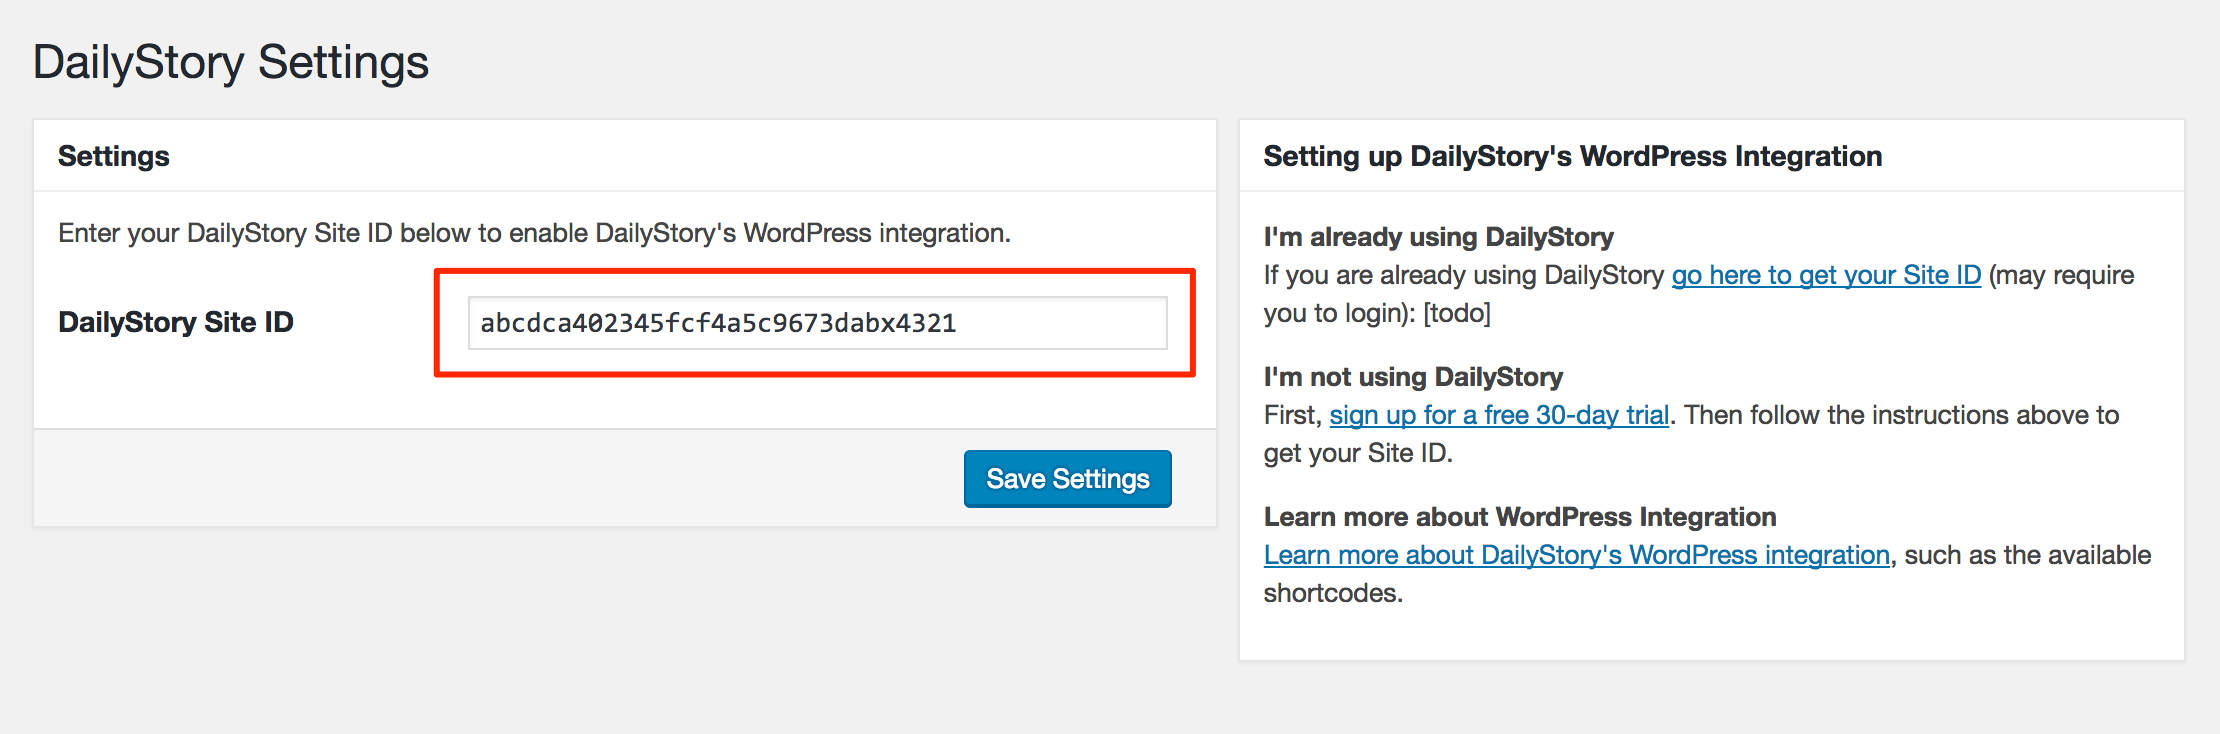
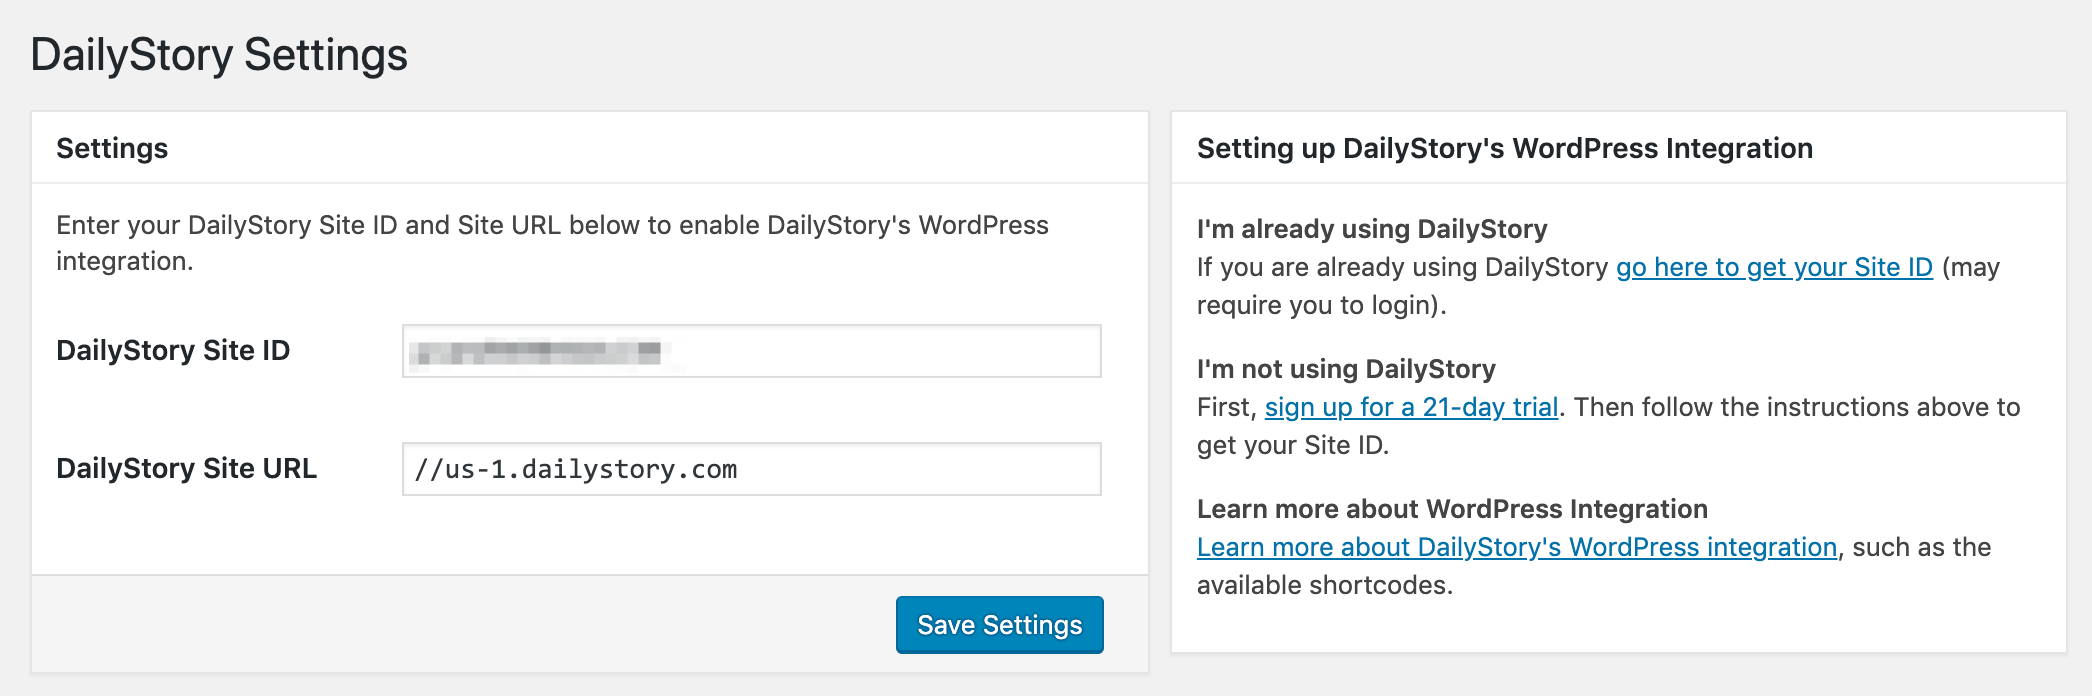
Update instructions

diff --git a/plugin/admin/dailystory-admin.php b/plugin/admin/dailystory-admin.php
@@ -103,7 +103,7 @@ class DailyStoryPluginAdmin {
         // Site URL
         add_settings_field(
             'dailystory_tenant_url',
-            'DailyStory Site URL',
+            'DailyStory Site Url',
             array($this, 'dailystory_tenant_url_callback'),
             DAILYSTORY_ADMIN_URL,
             'dailystory_settings_section'
@@ -175,10 +175,10 @@ class DailyStoryPluginAdmin {
                             <div class="inside">
                                 <p>
                                 <b>I'm already using DailyStory</b>
-                                <br>If you are already using DailyStory <a target='_blank' href='https://app.dailystory.com/login?ReturnUrl=%2FAccount%2FTrackCode'>go here to get your Site ID</a> (may require you to login).
+                                <br>If you are already using DailyStory <a target='_blank' href='https://docs.dailystory.com/install/wordpress'>see the instructions</a> for setting up WordPress integration.
                                 </p>
 								<p><b>I'm not using DailyStory</b>
-                                <br>First, <a target='_blank' href='https://app.dailystory.com/trial'>sign up for a 21-day trial</a>. Then follow the instructions above to get your Site ID.</a></p>
+                                <br>First, <a target='_blank' href='https://app.dailystory.com/trial'>sign up for a 21-day trial</a>. Then follow the instructions above to get your Site ID and Url.</a></p>
 								<p><b>Learn more about WordPress Integration</b><br><a target='_blank' href='https://www.dailystory.com/integrations/wordpress'>Learn more about DailyStory's WordPress integration</a>, such as the available shortcodes.
                             </div>
                         </div> <!-- end postbox -->

diff --git a/plugin/dailystory.php b/plugin/dailystory.php
@@ -1,11 +1,11 @@
 <?php
 /*
 Plugin Name: DailyStory Marketing Solutions
-Plugin URI: https://www.dailystory.com/integrations/wordpress
+Plugin URI: https://docs.dailystory.com/install/wordpress
 Description: Adds integration to the DailyStory Marketing Automation platform to your WordPress website to track visitors, know what converts, engage in conversations, and drive new leads.
-Version: 1.1.0
+Version: 1.1.2
 Author: DailyStory
-Author URI: https://www.dailystory.com/
+Author URI: https://www.dailystory.com/integrations/wordpress
 License: GPL v2 or later
 */
 
@@ -29,7 +29,7 @@ class DailyStoryPlugin {
 			define('DAILYSTORY_PLUGIN_SLUG', basename(dirname(__FILE__)));	
 
 		if ( !defined('DAILYSTORY_PLUGIN_VERSION') )
-			define('DAILYSTORY_PLUGIN_VERSION', '1.1.0');
+			define('DAILYSTORY_PLUGIN_VERSION', '1.1.2');
 
 		// ──────────────────────────────────────────────
 		// Load required files

diff --git a/README.md b/README.md
@@ -19,7 +19,7 @@ This handles the actual shortcode processing.
 This handles adding the tracking pixel.
 
 ### Current Supported Version
-version 1.0.4, Released September 2017
+version 1.1.2, Released June 2019
 
 ## License
 The DailyStory for WordPress plugin is licensed under GNU General Public License v2.0 or later.
